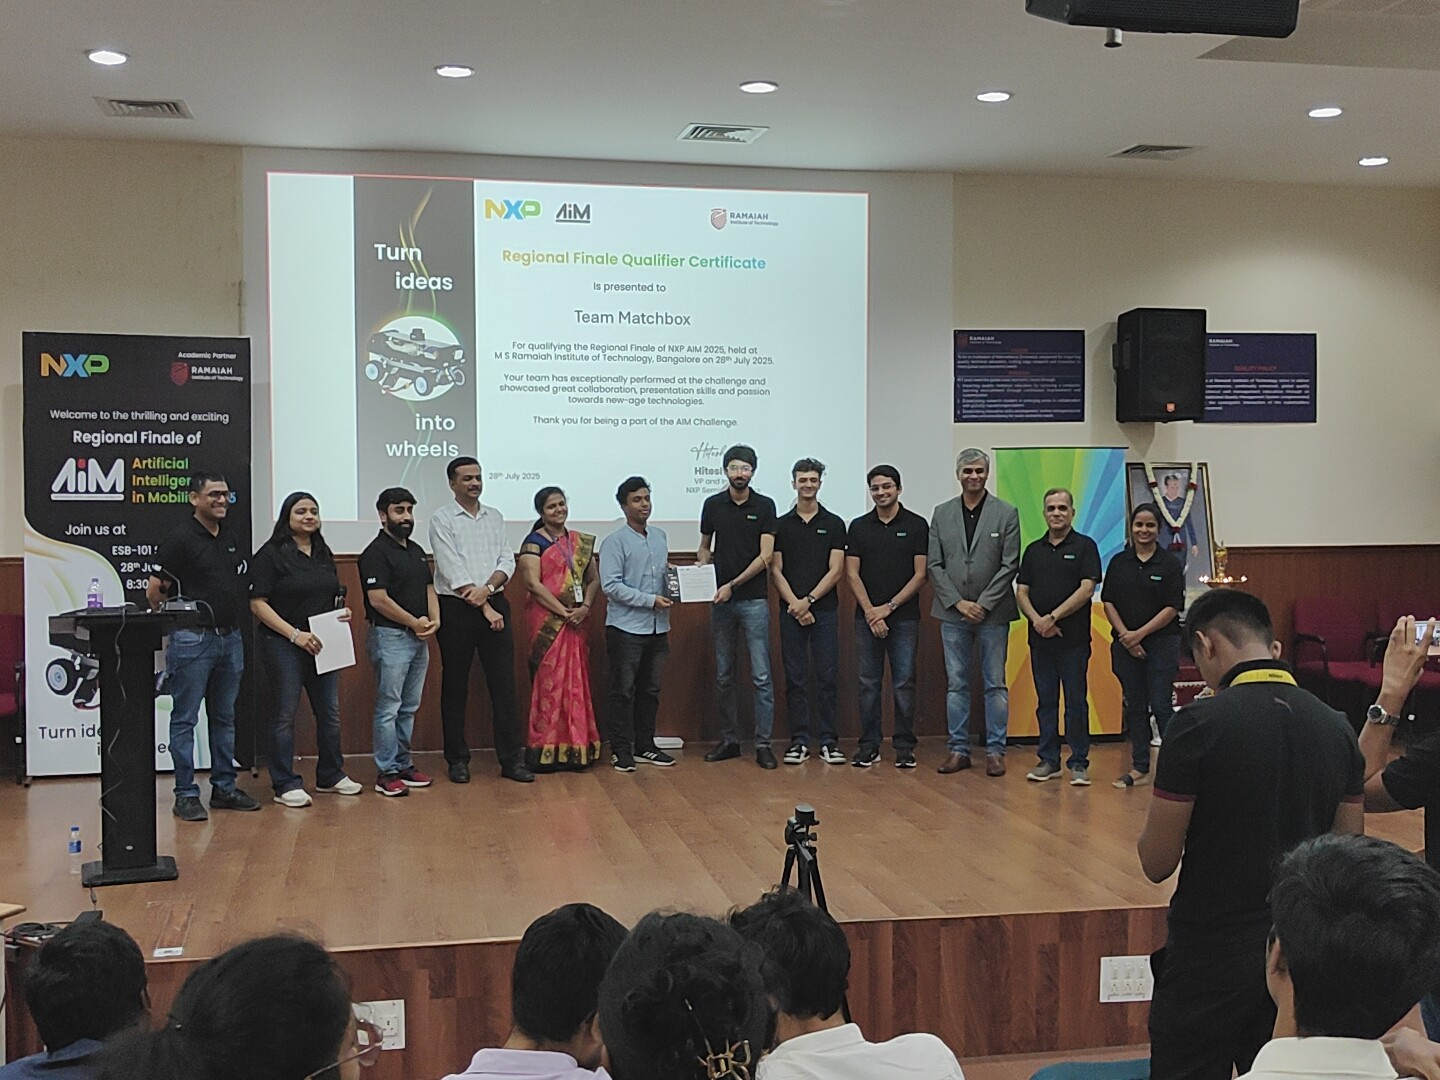
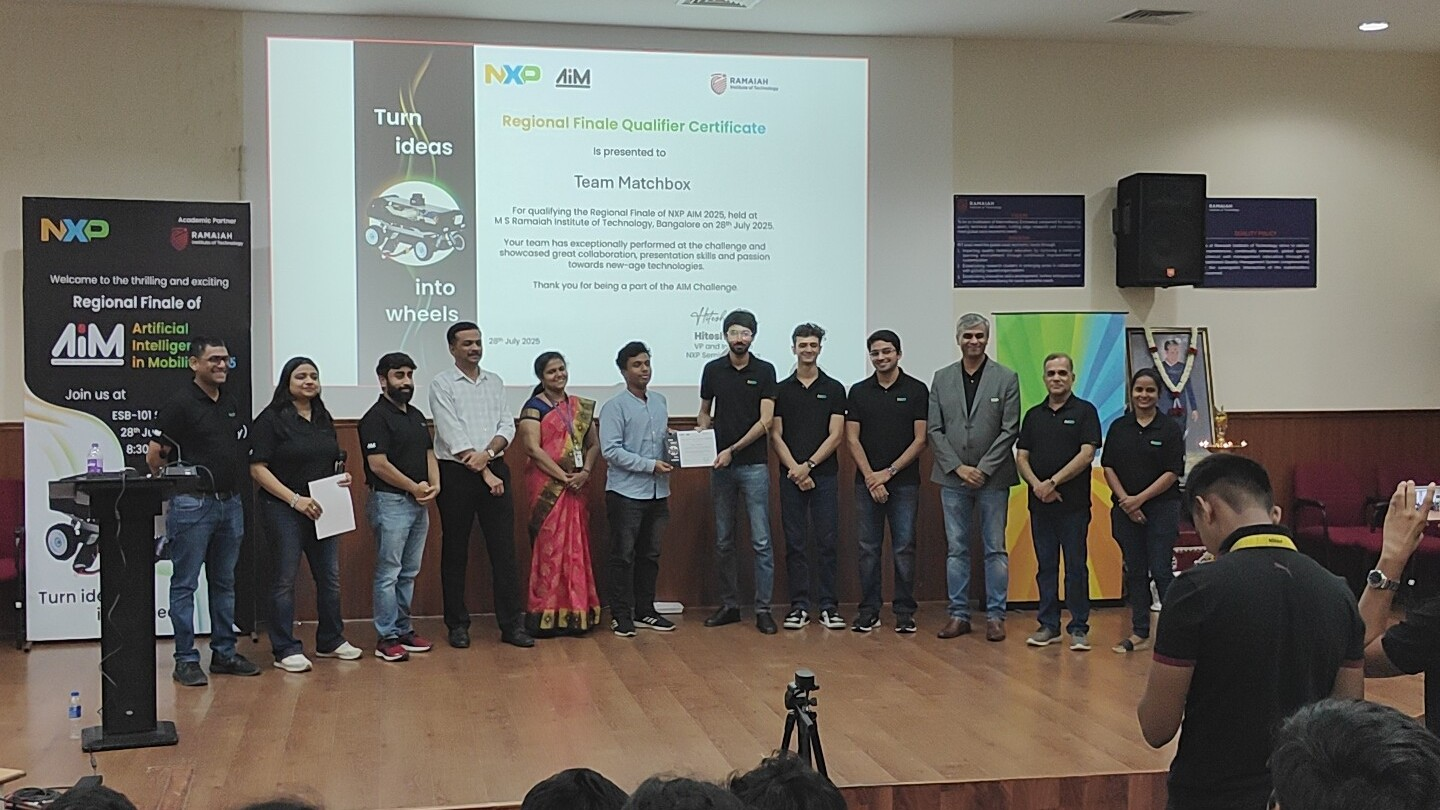
fix: updated pictures

diff --git a/index.html b/index.html
@@ -149,7 +149,8 @@
 					<!-- <h3></br><strong>Ongoing Projects</strong></h3> -->
 					<div class="row gtr-150">
 						<div class="col-4 col-12-medium">
-							<span class="image fit"><img src="images/Posters/nxp25_poster.jpg" alt="" /></span>
+							<!-- <span class="image fit"><img src="images/Posters/nxp25_poster.jpg" alt="" /></span> -->
+							<span class="image fit"><img src="images/proj_pics/nxp_cert.jpg" alt="" /></span>
 							<h3>NXP Semiconductors - Artificial Inteligence in Mobility Challenge 2025</h3>
 							<p><strong>Grand Finalist</strong> in an ongoing competition focused on building code for an autonomous mobile robot aiming to automate warehouse operations. One of  the 14 teams that qualified out of 450+ teams.</p>
 							<p><strong>Key Skills Used:</strong> ROS2 Humble, Python, OpenCV, GazeboSim, LIDAR Sensor Integration</p>
@@ -221,7 +222,7 @@
 					<h1></h1>
 					<div class="row gtr-150 aln-center">
 						<div class="col-4 col-12-medium">
-							<span class="image fit"><img src="images/Posters/nxp24_poster.jpg" alt="" /></span>
+							<span class="image fit"><img src="images/proj_pics/old_nxp.jpg" alt="" /></span>
 							<h3>NXP Semiconductors - Artificial Inteligence in Mobility Challenge 2024</h3>
 							<p>Worked in a team of 4, Developed scripts focused on obstacle avoidance for smart cars. Competed in Regional Finale at RVCE Bangalore. Tested only in simulations.</p>
 							<p><strong>Key Skills Used:</strong> ROS2, GazeboSim, Python </p>
